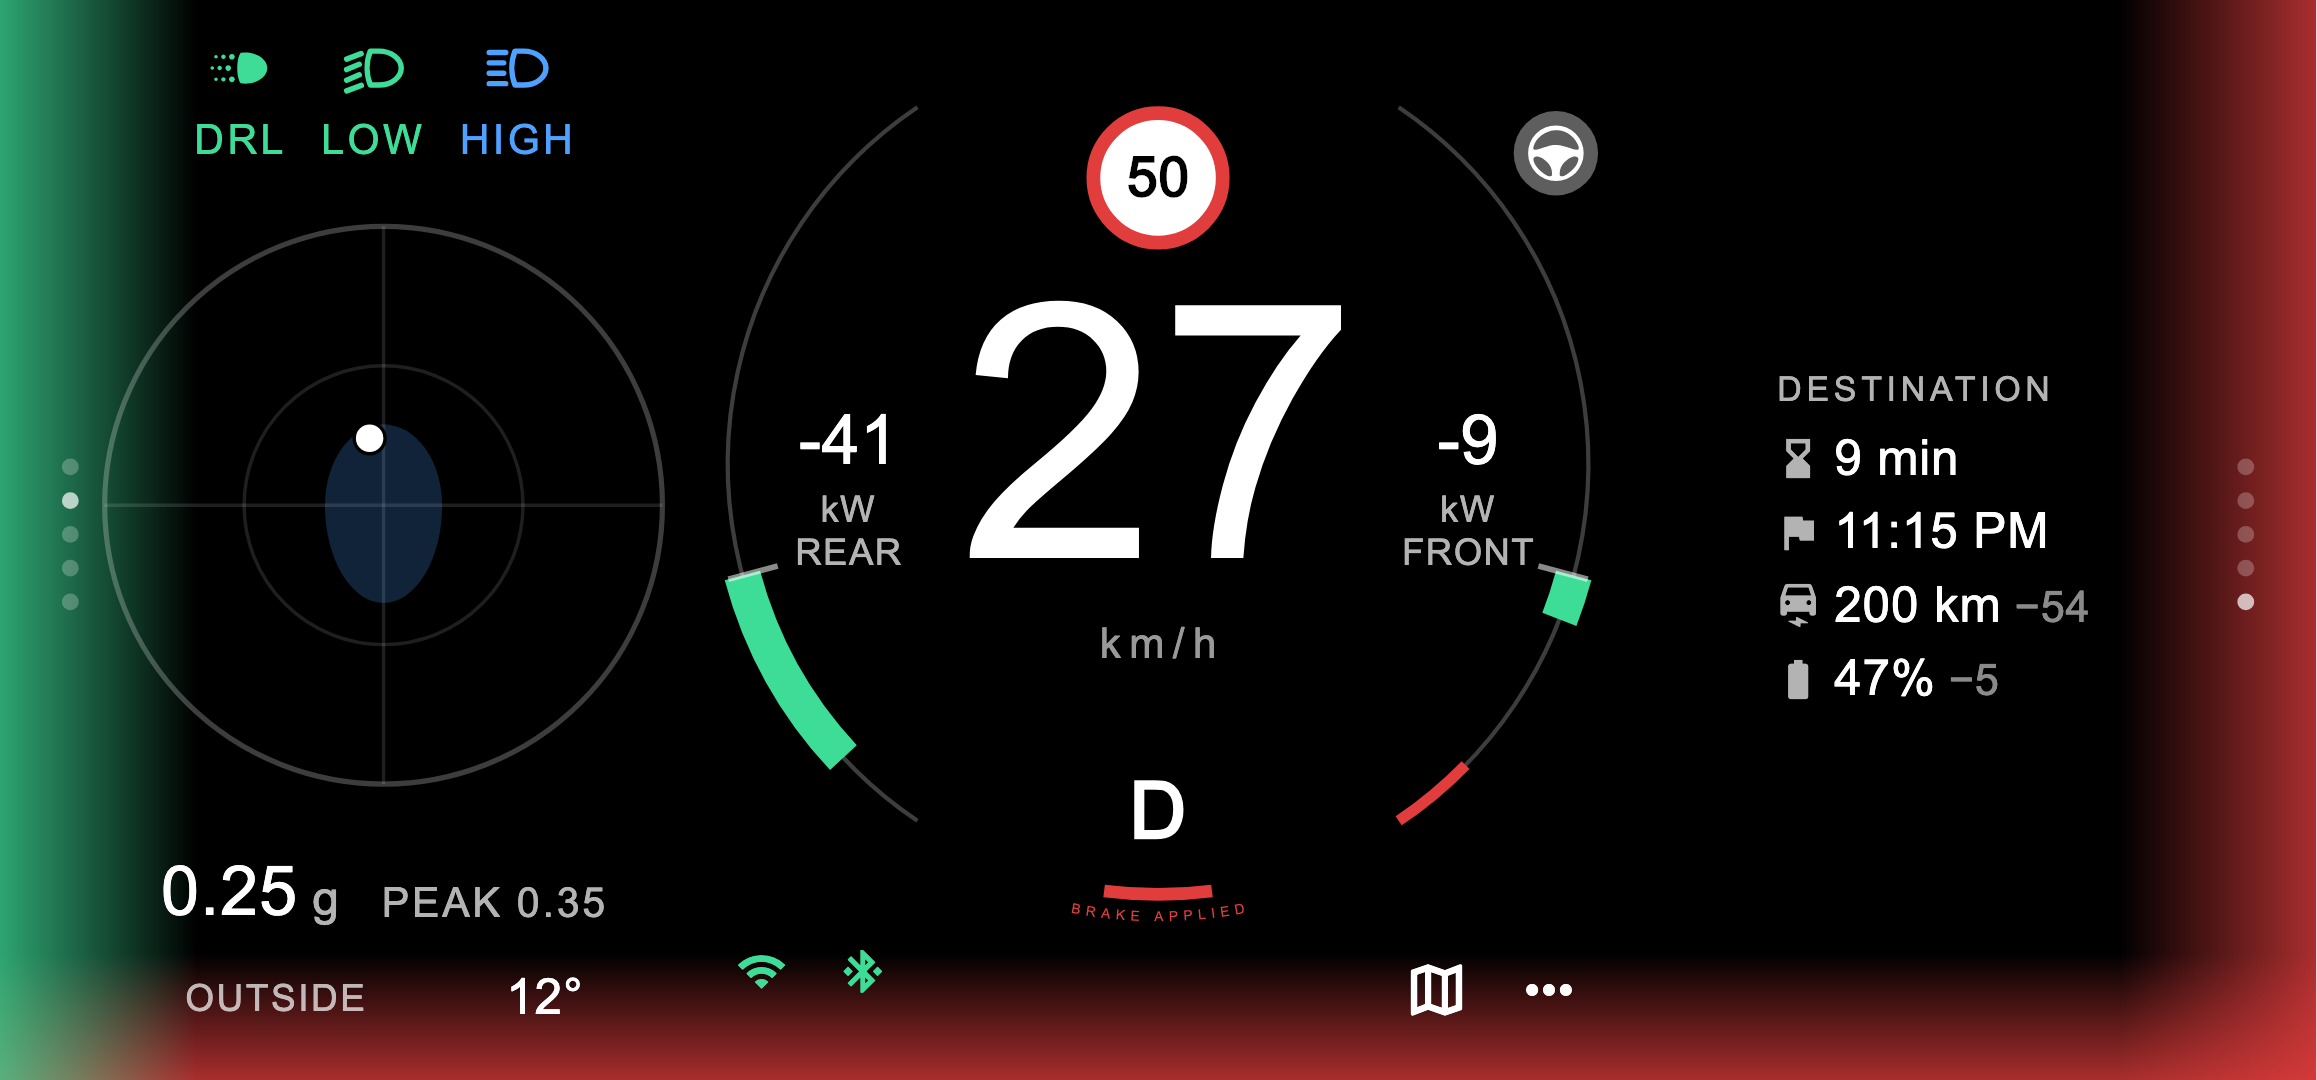
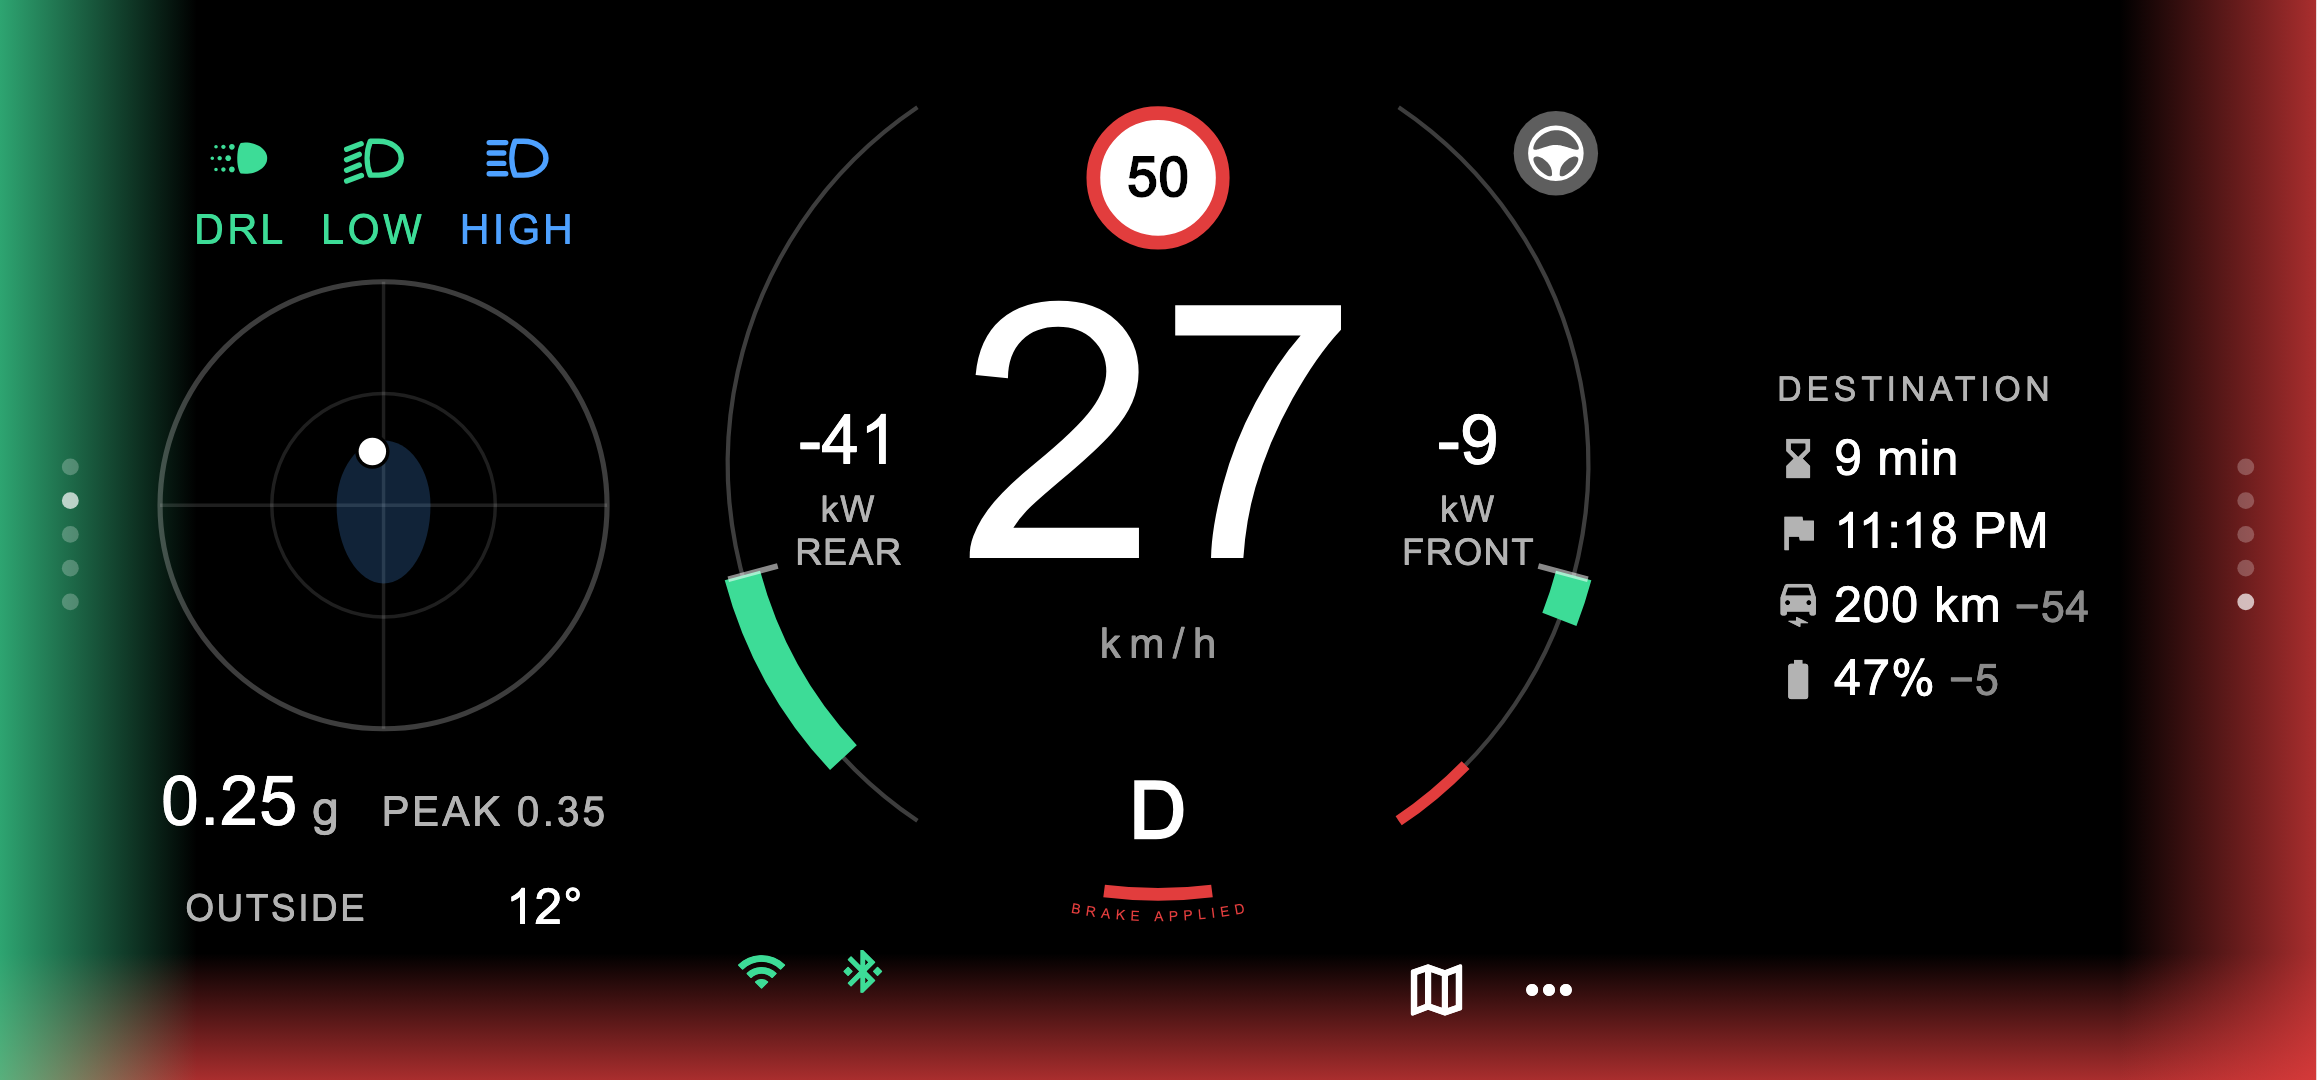
Basic: the drive card at its former height, centred: the g-meter no bigger than before

diff --git a/lib/main.dart b/lib/main.dart
@@ -1047,16 +1047,22 @@ class _DashPageState extends State<DashPage> {
               _Pack(obd: o, outside: false, size: small),
             ]),
           ]),
-          Column(children: [
-            // The lamps and grip on top (the assist state is by the ring).
-            _Lights(obd: o),
-            const SizedBox(height: 6),
-            // The g-meter (WiFi only), as big as the room.
-            Expanded(child: ListenableBuilder(listenable: o.fast, builder: (context, _) => _GBall(obd: o, tall: true))),
-            const SizedBox(height: 6),
-            // The air outside.
-            _Pack(obd: o, pack: false, size: small),
-          ]),
+          // In the height it had before the cards ran the screen's height (the
+          // bar under them took the rest), centred: the g-meter no bigger
+          // than it was, room above and below.
+          FractionallySizedBox(
+            heightFactor: 0.82,
+            child: Column(children: [
+              // The lamps and grip on top (the assist state is by the ring).
+              _Lights(obd: o),
+              const SizedBox(height: 6),
+              // The g-meter (WiFi only), as big as the room.
+              Expanded(child: ListenableBuilder(listenable: o.fast, builder: (context, _) => _GBall(obd: o, tall: true))),
+              const SizedBox(height: 6),
+              // The air outside.
+              _Pack(obd: o, pack: false, size: small),
+            ]),
+          ),
           // The car, low going forward and high in reverse ([_BasicCar]).
           _Fill((height) => _BasicCar(obd: o, height: height)),
           _fit(Row(mainAxisSize: MainAxisSize.min, spacing: 16, children: [

diff --git a/test/dash_shot_test.dart b/test/dash_shot_test.dart
@@ -386,6 +386,9 @@ void main() {
     await swipe(right, 1);
     expect(find.textContaining('PEAK'), findsOneWidget);
     expect(find.text('OUTSIDE'), findsOneWidget);
+    // The g-meter no bigger than before the cards ran the screen's height.
+    final ball = t.getRect(find.byWidgetPredicate((w) => w is CustomPaint && w.painter.runtimeType.toString() == '_GPainter'));
+    expect(ball.height, closeTo(161, 4));
     expect(find.text('9 min'), findsOneWidget);
     // At arrival: the battery, and what the route takes of it now (52 %).
     expect(find.text('47% −5', findRichText: true), findsOneWidget);
